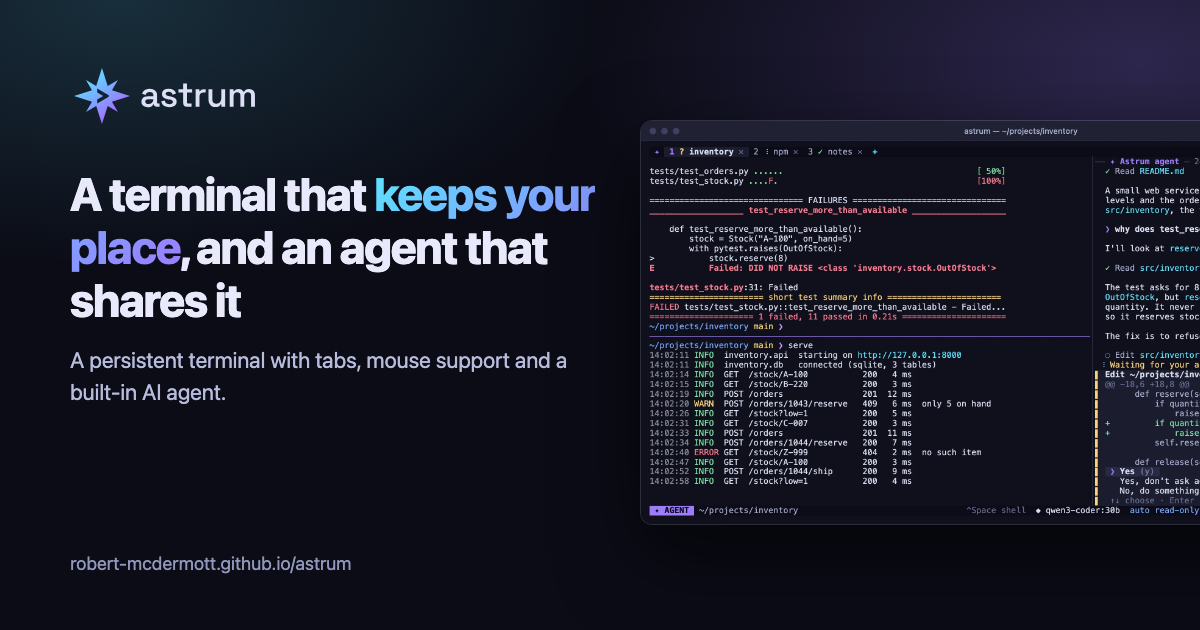
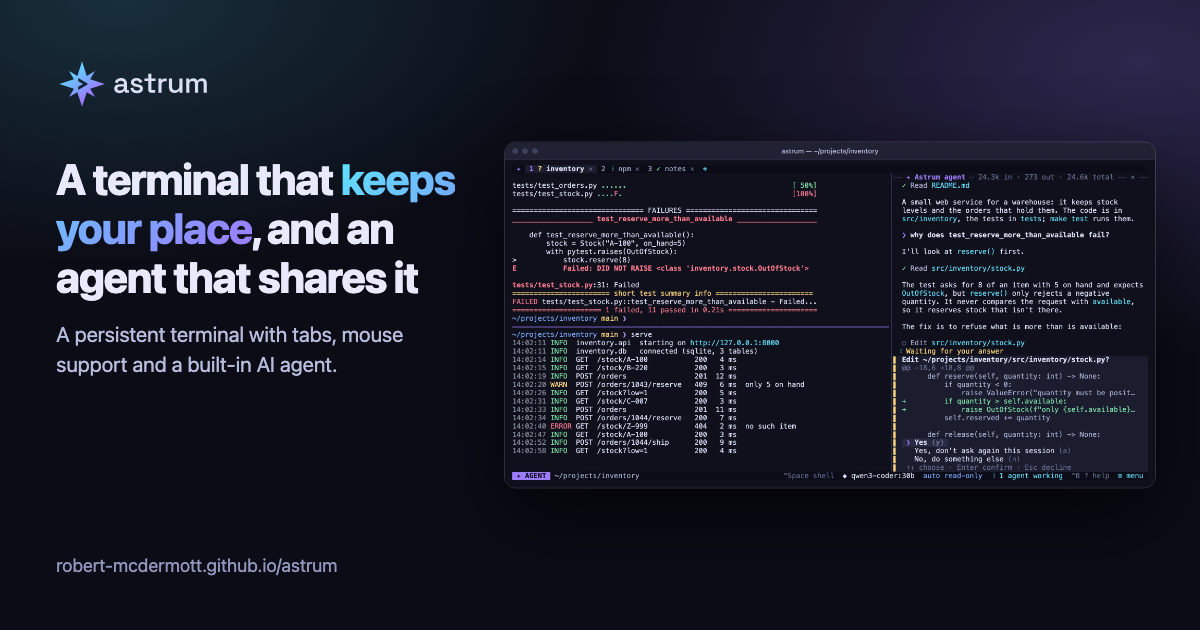
Site: the link preview shows the whole window, the agent's side too
The picture shown when a link to the site is shared cut the screenshot
off at the right edge, and with it the agent. It now shows the whole
window beside the headline. The home page's preview title is the page's
full title, not only the name, and the picture has a description.

Changed region(s): [[0.0308, 0.181, 1.0, 0.8444], [0.0308, 0.0905, 0.2158, 0.181], [0.0308, 0.8746, 0.3083, 0.9349]]

diff --git a/site/capture/og.html b/site/capture/og.html
@@ -4,17 +4,18 @@
 <style>
   html, body { margin: 0; background: #0b0c16; }
   #card {
-    position: relative; width: 1200px; height: 630px; overflow: hidden; box-sizing: border-box; padding: 64px 70px;
+    position: relative; width: 1200px; height: 630px; overflow: hidden; box-sizing: border-box; padding: 58px 56px;
     background: radial-gradient(700px 380px at 10% 0%, rgba(93, 228, 255, 0.16), transparent 70%), radial-gradient(800px 420px at 95% 10%, rgba(157, 124, 255, 0.24), transparent 70%), #0b0c16;
     font-family: -apple-system, BlinkMacSystemFont, "Segoe UI", sans-serif; color: #e8eafb;
   }
-  .wordmark { height: 64px; display: block; }
-  h1 { font-size: 46px; line-height: 1.15; letter-spacing: -0.03em; margin: 40px 0 18px; max-width: 560px; font-weight: 750; }
+  .wordmark { height: 52px; display: block; }
+  h1 { font-size: 43px; line-height: 1.14; letter-spacing: -0.03em; margin: 44px 0 18px; max-width: 450px; font-weight: 750; }
   h1 span { background: linear-gradient(135deg, #5de4ff, #7aa8ff 50%, #9d7cff); -webkit-background-clip: text; background-clip: text; color: transparent; }
-  p { font-size: 22px; line-height: 1.45; color: #b8bcdc; max-width: 520px; margin: 0; }
-  .shot { position: absolute; left: 640px; top: 120px; width: 760px; border-radius: 12px; overflow: hidden; box-shadow: 0 30px 80px rgba(0, 0, 0, 0.6); border: 1px solid rgba(220, 223, 245, 0.16); }
+  p { font-size: 21px; line-height: 1.45; color: #b8bcdc; max-width: 400px; margin: 0; }
+  /* (The whole window, the agent's side too.) */
+  .shot { position: absolute; right: 44px; top: 50%; transform: translateY(-50%); width: 650px; border-radius: 12px; overflow: hidden; box-shadow: 0 30px 80px rgba(0, 0, 0, 0.6); border: 1px solid rgba(220, 223, 245, 0.16); }
   .shot img { display: block; width: 100%; }
-  .url { position: absolute; left: 70px; bottom: 56px; font-size: 18px; color: #9297bd; }
+  .url { position: absolute; left: 56px; bottom: 54px; font-size: 18px; color: #9297bd; }
 </style>
 <div id="card">
   <img class="wordmark" src="{{logo}}/astrum-wordmark-on-dark.svg" alt="Astrum">
